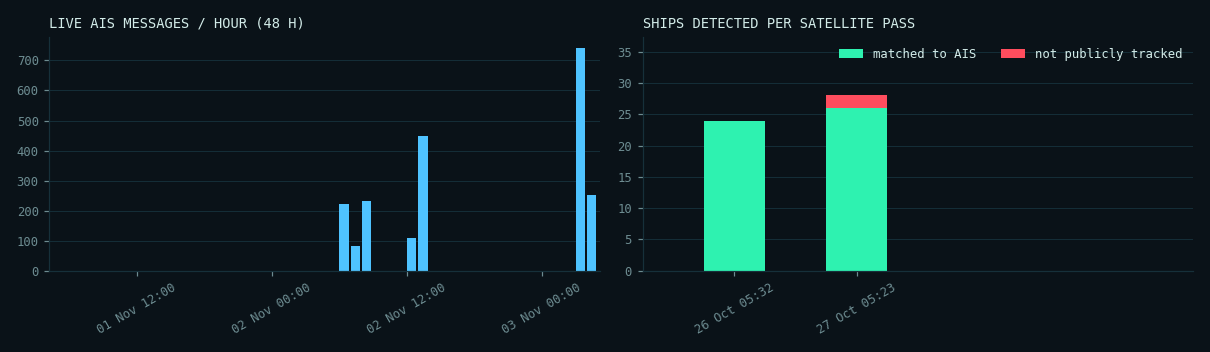
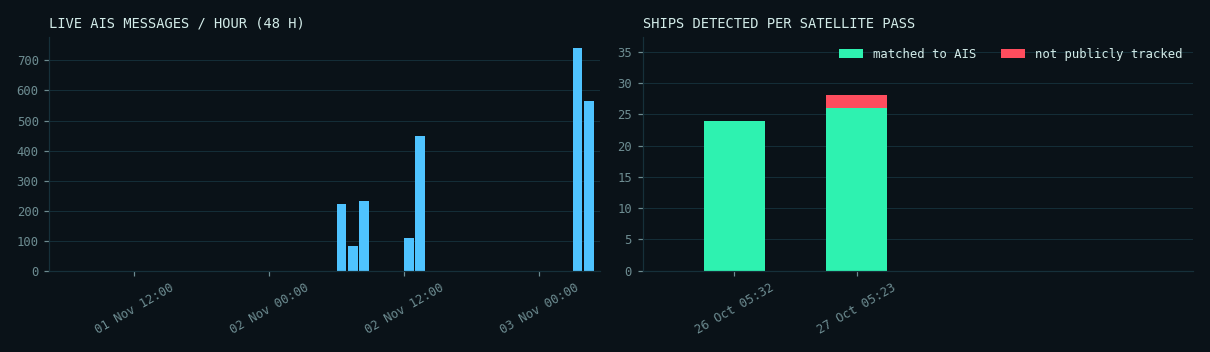
Automatic site update 2026-11-03 04:26 UTC

diff --git a/docs/denmark/index.html b/docs/denmark/index.html
@@ -83,13 +83,13 @@ footer{border-top:1px solid var(--line);padding:18px 0 28px;font:12px/1.6 var(--
   <div><div class="kicker">SAR &times; AIS &middot; MARITIME AWARENESS</div><div class="title">DARK VESSEL <b>DETECTION</b></div></div></a>
  <div class="status"><span class="pill"><span class="dot live"></span>AIS FEED <strong>LIVE</strong></span>
   <span class="pill">UTC <strong id="utc">--:--:--</strong></span>
-  <span class="pill">UPDATED <strong>03 Nov 04:12</strong></span></div>
+  <span class="pill">UPDATED <strong>03 Nov 04:27</strong></span></div>
 </div><nav class="tabs"><a class="" href="../index.html">OVERVIEW</a><a class="" href="../mumbai/index.html">MUMBAI</a><a class="on" href="../denmark/index.html">DENMARK</a><a class="" href="../nn/index.html">NEURAL NET</a><a class="" href="../demo/index.html">SIMULATION</a></nav></div></header>
 <main class="wrap"><div class="coords">SECTOR // DENMARK &middot; 55.55&ndash;55.85&deg;N &middot; 12.55&ndash;12.95&deg;E</div>
 <h1>Oresund, Copenhagen (Denmark/Sweden)</h1><p class="lede">Validation area. Sentinel-1 images it almost daily and coastal AIS coverage is dense, so the full match between radar and AIS can be shown and checked.</p>
 <div class="grid">
  <div class="panel"><div class="label">Live AIS feed</div><div class="value small"><span class='ok'>RECEIVING</span></div><div class="muted mono" style="font-size:12px;margin-top:6px">last message 0 min ago</div></div>
- <div class="panel"><div class="label">Ships broadcasting &middot; 30 min</div><div class="value cyan">56</div></div>
+ <div class="panel"><div class="label">Ships broadcasting &middot; 30 min</div><div class="value cyan">57</div></div>
  <div class="panel"><div class="label">Matched &middot; latest pass</div><div class="value ">26</div></div>
  <div class="panel"><div class="label">Not tracked &middot; high confidence</div><div class="value red">0</div></div>
  <div class="panel"><div class="label">Not tracked &middot; low confidence</div><div class="value amber">2</div></div>
@@ -98,7 +98,7 @@ footer{border-top:1px solid var(--line);padding:18px 0 28px;font:12px/1.6 var(--
 <div class="legend"><span><i style="background:var(--green)"></i>matched to AIS</span><span><i style="background:var(--red)"></i>not tracked &middot; high confidence</span>
 <span><i style="background:var(--amber)"></i>not tracked &middot; low confidence</span><span><i style="background:var(--cyan)"></i>live AIS position</span></div>
 <div id="map" class="map"></div><script>
-const D=[{"lon": 12.574560869565218, "lat": 55.849597826086956, "length_m": 72.681575622935, "score": 0.6554655519501138, "shore_km": 0.14150886088341372, "status": "matched", "reason": "", "confidence": "high", "crop": "", "ship_prob": 0.9335045218467712}, {"lon": 12.704759174311928, "lat": 55.82280412844037, "length_m": 364.1071436957287, "score": 0.9904753373251979, "shore_km": 9.407061429825474, "status": "matched", "reason": "", "confidence": "high", "crop": "", "ship_prob": 0.9868959784507751}, {"lon": 12.786416463414636, "lat": 55.804669512195126, "length_m": 155.0522474362954, "score": 0.9999646038759398, "shore_km": 4.658419014138412, "status": "matched", "reason": "", "confidence": "high", "crop": "", "ship_prob": 0.9993557333946228}, {"lon": 12.88229375, "lat": 55.849146875, "length_m": 53.38783327710226, "score": 0.9899546194309776, "shore_km": 0.9067240720863213, "status": "candidate", "reason": "same_spot_in_another_pass", "confidence": "low", "crop": "crops/S1-Oresund-20261027_37.png", "ship_prob": 0.7905591130256653}, {"lon": 12.604004166666668, "lat": 55.75985, "length_m": 141.84238362073958, "score": 0.6867268898684522, "shore_km": 0.07168283192738693, "status": "matched", "reason": "", "confidence": "high", "crop": "", "ship_prob": 0.5051270127296448}, {"lon": 12.605736764705883, "lat": 55.75241323529412, "length_m": 122.11483240811877, "score": 0.9136889320646264, "shore_km": 0.6454382429486746, "status": "candidate", "reason": "same_spot_in_another_pass", "confidence": "low", "crop": "crops/S1-Oresund-20261027_77.png", "ship_prob": 0.7927113175392151}, {"lon": 12.703722571428573, "lat": 55.77917742857143, "length_m": 223.0817648726515, "score": 0.9996320924909895, "shore_km": 5.943270442766068, "status": "matched", "reason": "", "confidence": "high", "crop": "", "ship_prob": 0.9938097596168518}, {"lon": 12.902757692307693, "lat": 55.75654230769231, "length_m": 65.46226537445588, "score": 0.7187896049600956, "shore_km": 0.03584141596369347, "status": "matched", "reason": "", "confidence": "high", "crop": "", "ship_prob": 0.8691755533218384}, {"lon": 12.589922222222222, "lat": 55.725764814814816, "length_m": 146.45480845096748, "score": 0.9957587025210503, "shore_km": 0.034771280891766385, "status": "matched", "reason": "", "confidence": "high", "crop": "", "ship_prob": 0.9983701109886169}, {"lon": 12.598472047244096, "lat": 55.72077913385827, "length_m": 207.62671185403417, "score": 0.609772230082722, "shore_km": 0.14016751439395445, "status": "matched", "reason": "", "confidence": "high", "crop": "", "ship_prob": 0.6074324250221252}, {"lon": 12.589218, "lat": 55.712854, "length_m": 90.49550243938293, "score": 0.6486089656085543, "shore_km": 0.043464101114707984, "status": "matched", "reason": "", "confidence": "high", "crop": "", "ship_prob": 0.9998902082443237}, {"lon": 12.59024090909091, "lat": 55.71147090909091, "length_m": 162.54265478639104, "score": 1.0, "shore_km": 0.06146752127277559, "status": "matched", "reason": "", "confidence": "high", "crop": "", "ship_prob": 0.9999992847442627}, {"lon": 12.597835937500001, "lat": 55.701648437500005, "length_m": 133.31776511703256, "score": 0.9396217092764791, "shore_km": 0.06789309632894441, "status": "matched", "reason": "", "confidence": "high", "crop": "", "ship_prob": 0.9999727010726929}, {"lon": 12.60914, "lat": 55.69712, "length_m": 65.36743236464424, "score": 0.7827588237578229, "shore_km": 0.03134240904220623, "status": "matched", "reason": "", "confidence": "high", "crop": "", "ship_prob": 0.9867132902145386}, {"lon": 12.668552272727274, "lat": 55.72007840909091, "length_m": 207.26605497726354, "score": 0.6251792307103263, "shore_km": 0.03584141596369347, "status": "matched", "reason": "", "confidence": "high", "crop": "", "ship_prob": 0.9087074398994446}, {"lon": 12.5996, "lat": 55.68885, "length_m": 40.00855981470757, "score": 0.7664068666153926, "shore_km": 0.024587008509110237, "status": "matched", "reason": "", "confidence": "high", "crop": "", "ship_prob": 0.9766618013381958}, {"lon": 12.595819230769232, "lat": 55.67989871794872, "length_m": 127.62371588738732, "score": 0.9426870407335851, "shore_km": 0.05068741655051085, "status": "matched", "reason": "", "confidence": "high", "crop": "", "ship_prob": 0.9998841285705566}, {"lon": 12.594722222222224, "lat": 55.67918888888889, "length_m": 40.64467714079742, "score": 0.7639524834029205, "shore_km": 0.043464101114707984, "status": "matched", "reason": "", "confidence": "high", "crop": "", "ship_prob": 0.9999454021453857}, {"lon": 12.610660714285714, "lat": 55.69618571428572, "length_m": 94.51225356515693, "score": 0.9621795096736379, "shore_km": 0.03134240904220623, "status": "matched", "reason": "", "confidence": "high", "crop": "", "ship_prob": 0.999042809009552}, {"lon": 12.649045000000001, "lat": 55.692155, "length_m": 80.63364746000343, "score": 0.8515033668168979, "shore_km": 0.8863693295037299, "status": "matched", "reason": "", "confidence": "high", "crop": "", "ship_prob": 0.4333752989768982}, {"lon": 12.630751724137932, "lat": 55.685453448275865, "length_m": 125.00287123881988, "score": 0.93629426700422, "shore_km": 0.043464101114707984, "status": "matched", "reason": "", "confidence": "high", "crop": "", "ship_prob": 0.9975905418395996}, {"lon": 12.634987254901962, "lat": 55.677338235294116, "length_m": 276.5478352749318, "score": 0.7686103584091717, "shore_km": 0.024587008509110237, "status": "matched", "reason": "", "confidence": "high", "crop": "", "ship_prob": 0.9729636907577515}, {"lon": 12.68766150442478, "lat": 55.69581814159292, "length_m": 176.8074930452176, "score": 0.923202226335388, "shore_km": 2.6834920471942074, "status": "matched", "reason": "", "confidence": "high", "crop": "", "ship_prob": 0.8427141904830933}, {"lon": 12.65826847826087, "lat": 55.63610108695652, "length_m": 174.21377549767067, "score": 0.9833187000337672, "shore_km": 0.043464101114707984, "status": "matched", "reason": "", "confidence": "high", "crop": "", "ship_prob": 0.9998973608016968}, {"lon": 12.680683333333334, "lat": 55.610910000000004, "length_m": 74.22790892756812, "score": 0.6314184609397504, "shore_km": 0.03134240904220623, "status": "matched", "reason": "", "confidence": "high", "crop": "", "ship_prob": 0.44054293632507324}, {"lon": 12.868352132196163, "lat": 55.60022420042644, "length_m": 299.20726350177785, "score": 0.9999960398718075, "shore_km": 2.8169298200726325, "status": "matched", "reason": "", "confidence": "high", "crop": "", "ship_prob": 0.9967911839485168}, {"lon": 12.680875, "lat": 55.59323, "length_m": 95.51211981545671, "score": 0.7585723176580392, "shore_km": 0.03584141596369347, "status": "matched", "reason": "", "confidence": "high", "crop": "", "ship_prob": 0.797581672668457}, {"lon": 12.706387741935485, "lat": 55.56306903225806, "length_m": 301.4640427512081, "score": 0.9999731380181186, "shore_km": 3.1965238712919084, "status": "matched", "reason": "", "confidence": "high", "crop": "", "ship_prob": 0.9941650032997131}],LIVE=[{"lon": 12.660731666666667, "lat": 55.404043333333334, "sog": 11.4, "age": 29}, {"lon": 12.634883333333333, "lat": 55.687149999999995, "sog": 0.0, "age": 28}, {"lon": 12.835306666666666, "lat": 55.85993, "sog": 0.0, "age": 22}, {"lon": 13.035161666666665, "lat": 55.62470666666666, "sog": 0.1, "age": 21}, {"lon": 12.729058333333334, "lat": 55.97932333333333, "sog": 0.1, "age": 20}, {"lon": 12.603485000000001, "lat": 55.760515000000005, "sog": 0.0, "age": 19}, {"lon": 12.8337, "lat": 55.855716666666666, "sog": 0.0, "age": 15}, {"lon": 12.831928333333334, "lat": 55.85404166666667, "sog": 0.0, "age": 15}, {"lon": 13.033301666666667, "lat": 55.62462, "sog": 0.0, "age": 14}, {"lon": 13.058513333333334, "lat": 55.67565833333333, "sog": 0.0, "age": 12}, {"lon": 12.832903333333332, "lat": 55.85850666666667, "sog": 0.0, "age": 11}, {"lon": 12.594951666666667, "lat": 55.682453333333335, "sog": 0.0, "age": 10}, {"lon": 12.722683333333332, "lat": 55.903735, "sog": 0.0, "age": 10}, {"lon": 12.480875, "lat": 55.606795000000005, "sog": 0.0, "age": 10}, {"lon": 12.676353333333333, "lat": 55.93192666666666, "sog": 0.0, "age": 9}, {"lon": 12.697930000000001, "lat": 55.457233333333335, "sog": 13.7, "age": 8}, {"lon": 12.997346666666665, "lat": 55.61366666666667, "sog": 0.0, "age": 8}, {"lon": 12.65807, "lat": 55.402699999999996, "sog": 9.9, "age": 7}, {"lon": 12.892198333333333, "lat": 55.52373333333333, "sog": 0.0, "age": 6}, {"lon": 12.744438333333333, "lat": 55.99321833333333, "sog": 0.0, "age": 6}, {"lon": 12.647483333333334, "lat": 55.67689166666666, "sog": 0.0, "age": 6}, {"lon": 12.729648333333333, "lat": 55.75158666666667, "sog": 0.0, "age": 6}, {"lon": 12.824833333333334, "lat": 55.86593333333334, "sog": 0.0, "age": 5}, {"lon": 12.635456666666666, "lat": 55.67645166666667, "sog": 0.0, "age": 5}, {"lon": 13.033781666666666, "lat": 55.62458, "sog": 0.0, "age": 5}, {"lon": 12.625311666666667, "lat": 55.69107333333333, "sog": 0.0, "age": 5}, {"lon": 12.66589, "lat": 55.71980333333333, "sog": 0.1, "age": 4}, {"lon": 12.654055, "lat": 55.859095, "sog": 9.7, "age": 4}, {"lon": 12.501651666666667, "lat": 55.61080333333334, "sog": 0.0, "age": 4}, {"lon": 12.828235000000001, "lat": 55.861675, "sog": 0.0, "age": 3}, {"lon": 12.827591666666667, "lat": 55.862743333333334, "sog": 0.0, "age": 3}, {"lon": 12.661093333333334, "lat": 55.94286, "sog": 12.8, "age": 3}, {"lon": 12.59298, "lat": 55.679269999999995, "sog": 0.0, "age": 3}, {"lon": 12.726915, "lat": 55.82815666666667, "sog": 8.4, "age": 3}, {"lon": 12.676118333333333, "lat": 55.59364333333333, "sog": 0.0, "age": 2}, {"lon": 12.593518333333332, "lat": 55.679179999999995, "sog": 0.0, "age": 2}, {"lon": 12.680085, "lat": 55.59289166666667, "sog": 0.0, "age": 2}, {"lon": 12.836225, "lat": 55.565263333333334, "sog": 12.8, "age": 2}, {"lon": 12.646913333333334, "lat": 55.677371666666666, "sog": 0.0, "age": 2}, {"lon": 12.680185, "lat": 55.592843333333334, "sog": 0.0, "age": 2}, {"lon": 12.693196666666667, "lat": 55.63366666666666, "sog": 7.3, "age": 2}, {"lon": 12.634131666666667, "lat": 55.675761666666666, "sog": 0.0, "age": 2}, {"lon": 12.734336666666668, "lat": 55.81198333333334, "sog": 5.7, "age": 1}, {"lon": 12.999793333333335, "lat": 55.618365000000004, "sog": 0.0, "age": 1}, {"lon": 12.730664999999998, "lat": 55.822916666666664, "sog": 8.4, "age": 1}, {"lon": 12.67686, "lat": 55.593981666666664, "sog": 0.0, "age": 1}, {"lon": 12.572745, "lat": 55.85084, "sog": 0.0, "age": 1}, {"lon": 12.482468333333333, "lat": 55.601416666666665, "sog": 0.0, "age": 1}, {"lon": 12.744443333333333, "lat": 55.9933, "sog": 0.0, "age": 1}, {"lon": 12.664043333333332, "lat": 55.720029999999994, "sog": 0.0, "age": 0}, {"lon": 12.903491666666667, "lat": 55.75664666666667, "sog": 0.0, "age": 0}, {"lon": 12.823681666666666, "lat": 55.866391666666665, "sog": 0.0, "age": 0}, {"lon": 12.811471666666668, "lat": 55.564695, "sog": 9.6, "age": 0}, {"lon": 12.599043333333332, "lat": 55.68904666666666, "sog": 0.1, "age": 0}, {"lon": 12.488326666666667, "lat": 55.51747666666667, "sog": 0.0, "age": 0}, {"lon": 12.699615, "lat": 55.59893666666667, "sog": 8.2, "age": 0}],B=[[55.55,12.55],[55.85,12.95]];const m=L.map('map',{zoomSnap:.25}).fitBounds(B);
+const D=[{"lon": 12.574560869565218, "lat": 55.849597826086956, "length_m": 72.681575622935, "score": 0.6554655519501138, "shore_km": 0.14150886088341372, "status": "matched", "reason": "", "confidence": "high", "crop": "", "ship_prob": 0.9335045218467712}, {"lon": 12.704759174311928, "lat": 55.82280412844037, "length_m": 364.1071436957287, "score": 0.9904753373251979, "shore_km": 9.407061429825474, "status": "matched", "reason": "", "confidence": "high", "crop": "", "ship_prob": 0.9868959784507751}, {"lon": 12.786416463414636, "lat": 55.804669512195126, "length_m": 155.0522474362954, "score": 0.9999646038759398, "shore_km": 4.658419014138412, "status": "matched", "reason": "", "confidence": "high", "crop": "", "ship_prob": 0.9993557333946228}, {"lon": 12.88229375, "lat": 55.849146875, "length_m": 53.38783327710226, "score": 0.9899546194309776, "shore_km": 0.9067240720863213, "status": "candidate", "reason": "same_spot_in_another_pass", "confidence": "low", "crop": "crops/S1-Oresund-20261027_37.png", "ship_prob": 0.7905591130256653}, {"lon": 12.604004166666668, "lat": 55.75985, "length_m": 141.84238362073958, "score": 0.6867268898684522, "shore_km": 0.07168283192738693, "status": "matched", "reason": "", "confidence": "high", "crop": "", "ship_prob": 0.5051270127296448}, {"lon": 12.605736764705883, "lat": 55.75241323529412, "length_m": 122.11483240811877, "score": 0.9136889320646264, "shore_km": 0.6454382429486746, "status": "candidate", "reason": "same_spot_in_another_pass", "confidence": "low", "crop": "crops/S1-Oresund-20261027_77.png", "ship_prob": 0.7927113175392151}, {"lon": 12.703722571428573, "lat": 55.77917742857143, "length_m": 223.0817648726515, "score": 0.9996320924909895, "shore_km": 5.943270442766068, "status": "matched", "reason": "", "confidence": "high", "crop": "", "ship_prob": 0.9938097596168518}, {"lon": 12.902757692307693, "lat": 55.75654230769231, "length_m": 65.46226537445588, "score": 0.7187896049600956, "shore_km": 0.03584141596369347, "status": "matched", "reason": "", "confidence": "high", "crop": "", "ship_prob": 0.8691755533218384}, {"lon": 12.589922222222222, "lat": 55.725764814814816, "length_m": 146.45480845096748, "score": 0.9957587025210503, "shore_km": 0.034771280891766385, "status": "matched", "reason": "", "confidence": "high", "crop": "", "ship_prob": 0.9983701109886169}, {"lon": 12.598472047244096, "lat": 55.72077913385827, "length_m": 207.62671185403417, "score": 0.609772230082722, "shore_km": 0.14016751439395445, "status": "matched", "reason": "", "confidence": "high", "crop": "", "ship_prob": 0.6074324250221252}, {"lon": 12.589218, "lat": 55.712854, "length_m": 90.49550243938293, "score": 0.6486089656085543, "shore_km": 0.043464101114707984, "status": "matched", "reason": "", "confidence": "high", "crop": "", "ship_prob": 0.9998902082443237}, {"lon": 12.59024090909091, "lat": 55.71147090909091, "length_m": 162.54265478639104, "score": 1.0, "shore_km": 0.06146752127277559, "status": "matched", "reason": "", "confidence": "high", "crop": "", "ship_prob": 0.9999992847442627}, {"lon": 12.597835937500001, "lat": 55.701648437500005, "length_m": 133.31776511703256, "score": 0.9396217092764791, "shore_km": 0.06789309632894441, "status": "matched", "reason": "", "confidence": "high", "crop": "", "ship_prob": 0.9999727010726929}, {"lon": 12.60914, "lat": 55.69712, "length_m": 65.36743236464424, "score": 0.7827588237578229, "shore_km": 0.03134240904220623, "status": "matched", "reason": "", "confidence": "high", "crop": "", "ship_prob": 0.9867132902145386}, {"lon": 12.668552272727274, "lat": 55.72007840909091, "length_m": 207.26605497726354, "score": 0.6251792307103263, "shore_km": 0.03584141596369347, "status": "matched", "reason": "", "confidence": "high", "crop": "", "ship_prob": 0.9087074398994446}, {"lon": 12.5996, "lat": 55.68885, "length_m": 40.00855981470757, "score": 0.7664068666153926, "shore_km": 0.024587008509110237, "status": "matched", "reason": "", "confidence": "high", "crop": "", "ship_prob": 0.9766618013381958}, {"lon": 12.595819230769232, "lat": 55.67989871794872, "length_m": 127.62371588738732, "score": 0.9426870407335851, "shore_km": 0.05068741655051085, "status": "matched", "reason": "", "confidence": "high", "crop": "", "ship_prob": 0.9998841285705566}, {"lon": 12.594722222222224, "lat": 55.67918888888889, "length_m": 40.64467714079742, "score": 0.7639524834029205, "shore_km": 0.043464101114707984, "status": "matched", "reason": "", "confidence": "high", "crop": "", "ship_prob": 0.9999454021453857}, {"lon": 12.610660714285714, "lat": 55.69618571428572, "length_m": 94.51225356515693, "score": 0.9621795096736379, "shore_km": 0.03134240904220623, "status": "matched", "reason": "", "confidence": "high", "crop": "", "ship_prob": 0.999042809009552}, {"lon": 12.649045000000001, "lat": 55.692155, "length_m": 80.63364746000343, "score": 0.8515033668168979, "shore_km": 0.8863693295037299, "status": "matched", "reason": "", "confidence": "high", "crop": "", "ship_prob": 0.4333752989768982}, {"lon": 12.630751724137932, "lat": 55.685453448275865, "length_m": 125.00287123881988, "score": 0.93629426700422, "shore_km": 0.043464101114707984, "status": "matched", "reason": "", "confidence": "high", "crop": "", "ship_prob": 0.9975905418395996}, {"lon": 12.634987254901962, "lat": 55.677338235294116, "length_m": 276.5478352749318, "score": 0.7686103584091717, "shore_km": 0.024587008509110237, "status": "matched", "reason": "", "confidence": "high", "crop": "", "ship_prob": 0.9729636907577515}, {"lon": 12.68766150442478, "lat": 55.69581814159292, "length_m": 176.8074930452176, "score": 0.923202226335388, "shore_km": 2.6834920471942074, "status": "matched", "reason": "", "confidence": "high", "crop": "", "ship_prob": 0.8427141904830933}, {"lon": 12.65826847826087, "lat": 55.63610108695652, "length_m": 174.21377549767067, "score": 0.9833187000337672, "shore_km": 0.043464101114707984, "status": "matched", "reason": "", "confidence": "high", "crop": "", "ship_prob": 0.9998973608016968}, {"lon": 12.680683333333334, "lat": 55.610910000000004, "length_m": 74.22790892756812, "score": 0.6314184609397504, "shore_km": 0.03134240904220623, "status": "matched", "reason": "", "confidence": "high", "crop": "", "ship_prob": 0.44054293632507324}, {"lon": 12.868352132196163, "lat": 55.60022420042644, "length_m": 299.20726350177785, "score": 0.9999960398718075, "shore_km": 2.8169298200726325, "status": "matched", "reason": "", "confidence": "high", "crop": "", "ship_prob": 0.9967911839485168}, {"lon": 12.680875, "lat": 55.59323, "length_m": 95.51211981545671, "score": 0.7585723176580392, "shore_km": 0.03584141596369347, "status": "matched", "reason": "", "confidence": "high", "crop": "", "ship_prob": 0.797581672668457}, {"lon": 12.706387741935485, "lat": 55.56306903225806, "length_m": 301.4640427512081, "score": 0.9999731380181186, "shore_km": 3.1965238712919084, "status": "matched", "reason": "", "confidence": "high", "crop": "", "ship_prob": 0.9941650032997131}],LIVE=[{"lon": 12.594951666666667, "lat": 55.682453333333335, "sog": 0.0, "age": 25}, {"lon": 12.65807, "lat": 55.402699999999996, "sog": 9.9, "age": 21}, {"lon": 12.744438333333333, "lat": 55.99321833333333, "sog": 0.0, "age": 21}, {"lon": 12.66589, "lat": 55.71980333333333, "sog": 0.1, "age": 19}, {"lon": 12.828235000000001, "lat": 55.861675, "sog": 0.0, "age": 17}, {"lon": 12.999793333333335, "lat": 55.618365000000004, "sog": 0.0, "age": 15}, {"lon": 12.599043333333332, "lat": 55.68904666666666, "sog": 0.1, "age": 14}, {"lon": 12.72914, "lat": 55.97906833333333, "sog": 0.0, "age": 14}, {"lon": 12.480893333333334, "lat": 55.60682, "sog": 0.0, "age": 12}, {"lon": 12.83375, "lat": 55.855716666666666, "sog": 0.0, "age": 11}, {"lon": 12.997345, "lat": 55.613665, "sog": 0.0, "age": 11}, {"lon": 12.835305, "lat": 55.85993, "sog": 0.0, "age": 9}, {"lon": 12.63486, "lat": 55.68714166666667, "sog": 0.0, "age": 9}, {"lon": 12.892178333333334, "lat": 55.52372666666667, "sog": 0.0, "age": 9}, {"lon": 12.831928333333334, "lat": 55.85404166666667, "sog": 0.0, "age": 8}, {"lon": 12.676055, "lat": 55.593648333333334, "sog": 0.0, "age": 8}, {"lon": 13.03331, "lat": 55.624559999999995, "sog": 0.0, "age": 8}, {"lon": 12.824866666666667, "lat": 55.865916666666664, "sog": 0.0, "age": 7}, {"lon": 12.634105, "lat": 55.675755, "sog": 0.0, "age": 7}, {"lon": 12.741763333333333, "lat": 55.843693333333334, "sog": 8.6, "age": 6}, {"lon": 12.823648333333333, "lat": 55.8664, "sog": 0.0, "age": 5}, {"lon": 12.827591666666667, "lat": 55.86271, "sog": 0.0, "age": 5}, {"lon": 12.680443333333333, "lat": 55.61122, "sog": 0.0, "age": 5}, {"lon": 12.488301666666667, "lat": 55.51754833333334, "sog": 0.0, "age": 5}, {"lon": 12.741233333333334, "lat": 55.828685, "sog": 6.1, "age": 5}, {"lon": 12.697585, "lat": 55.610636666666664, "sog": 7.6, "age": 5}, {"lon": 12.72975, "lat": 55.751776666666665, "sog": 0.1, "age": 5}, {"lon": 12.722643333333334, "lat": 55.90373, "sog": 0.0, "age": 5}, {"lon": 12.66403, "lat": 55.72002666666666, "sog": 0.0, "age": 3}, {"lon": 12.593475000000002, "lat": 55.67917833333333, "sog": 0.0, "age": 3}, {"lon": 12.671326666666666, "lat": 55.816865, "sog": 9.2, "age": 2}, {"lon": 12.684679999999998, "lat": 55.40779333333333, "sog": 14.0, "age": 2}, {"lon": 12.572758333333333, "lat": 55.85083833333333, "sog": 0.0, "age": 2}, {"lon": 12.603545, "lat": 55.760575, "sog": 0.0, "age": 2}, {"lon": 12.697095, "lat": 55.570463333333336, "sog": 12.3, "age": 2}, {"lon": 12.832901666666666, "lat": 55.85850666666667, "sog": 0.0, "age": 2}, {"lon": 12.744454999999999, "lat": 55.993298333333335, "sog": 0.0, "age": 2}, {"lon": 12.635425, "lat": 55.67644, "sog": 0.0, "age": 1}, {"lon": 12.625271666666666, "lat": 55.69106166666666, "sog": 0.0, "age": 1}, {"lon": 12.646938333333333, "lat": 55.677393333333335, "sog": 0.0, "age": 1}, {"lon": 12.482471666666667, "lat": 55.601416666666665, "sog": 0.0, "age": 1}, {"lon": 12.647474999999998, "lat": 55.67688, "sog": 0.0, "age": 1}, {"lon": 12.677158333333333, "lat": 55.93165333333333, "sog": 0.0, "age": 1}, {"lon": 13.033803333333333, "lat": 55.62458166666667, "sog": 0.0, "age": 1}, {"lon": 12.768246666666666, "lat": 55.53814, "sog": 9.0, "age": 1}, {"lon": 12.740908333333334, "lat": 55.86595, "sog": 8.8, "age": 1}, {"lon": 12.676905, "lat": 55.59395, "sog": 0.0, "age": 0}, {"lon": 12.758125, "lat": 55.528326666666665, "sog": 11.6, "age": 0}, {"lon": 12.833283333333332, "lat": 55.85588333333333, "sog": 0.0, "age": 0}, {"lon": 12.685056666666666, "lat": 55.99837333333333, "sog": 12.8, "age": 0}, {"lon": 12.68007, "lat": 55.5929, "sog": 0.0, "age": 0}, {"lon": 12.765475, "lat": 55.53581666666666, "sog": 9.6, "age": 0}, {"lon": 12.704975, "lat": 55.564, "sog": 9.5, "age": 0}, {"lon": 12.592981666666667, "lat": 55.67928833333334, "sog": 0.0, "age": 0}, {"lon": 12.903496666666666, "lat": 55.75664833333334, "sog": 0.0, "age": 0}, {"lon": 12.501646666666666, "lat": 55.610800000000005, "sog": 0.0, "age": 0}, {"lon": 13.0585, "lat": 55.67566, "sog": 0.0, "age": 0}],B=[[55.55,12.55],[55.85,12.95]];const m=L.map('map',{zoomSnap:.25}).fitBounds(B);
 // re-fit once layout has settled: if the container had no size when the map was created, Leaflet falls back to zoom 0
 const refit=()=>{m.invalidateSize();m.fitBounds(B);};setTimeout(refit,0);window.addEventListener('load',refit);
 // standard OSM tiles (no API key), turned into a dark "radar console" basemap with a CSS filter (.radar-tiles)
@@ -116,7 +116,7 @@ L.control.layers(null,{'Radar detections (selected pass)':det,'Live AIS, last 30
 </script>
 <h2>Pass log</h2><div class='tablewrap'><table><thead><tr><th>pass (UTC)</th><th>ships</th><th>matched</th><th>not tracked</th><th>low conf.</th><th>match rate</th><th>AIS msgs</th></tr></thead><tbody><tr><td>2026-10-27 05:23 UTC</td><td>28</td><td class='ok'>26</td><td class='bad'>0</td><td style='color:var(--amber)'>2</td><td>93%</td><td>10687</td></tr><tr><td>2026-10-26 05:32 UTC</td><td>24</td><td class='ok'>24</td><td class='bad'>0</td><td style='color:var(--amber)'>0</td><td>100%</td><td>11603</td></tr></tbody></table></div>
 <h2>Telemetry</h2><img class="chart" src="charts.png" alt="AIS messages per hour and ships detected per pass">
-<p class="muted mono" style="font-size:12px">Feed gaps in the last 24 h: 8 (1142 min) &middot; AIS messages in the last hour: 994</p>
+<p class="muted mono" style="font-size:12px">Feed gaps in the last 24 h: 8 (1142 min) &middot; AIS messages in the last hour: 1240</p>
 <h2>Recent Sentinel-1 acquisitions</h2><ul class="acq"><li>2026-11-02 05:23 UTC</li><li>2026-11-01 16:44 UTC</li><li>2026-11-01 05:31 UTC</li><li>2026-10-31 16:52 UTC</li><li>2026-10-30 17:00 UTC</li><li>2026-10-27 05:23 UTC</li><li>2026-10-26 05:32 UTC</li><li>2026-10-25 16:52 UTC</li></ul></main>
 <footer><div class="wrap">Data: Copernicus Sentinel-1 (ESA) &middot; AIS via aisstream.io and the Danish Maritime Authority &middot;
 coastlines, structures and basemap &copy; OpenStreetMap contributors. Flags are candidates for review, not accusations.</div></footer>

diff --git a/docs/index.html b/docs/index.html
@@ -83,7 +83,7 @@ footer{border-top:1px solid var(--line);padding:18px 0 28px;font:12px/1.6 var(--
   <div><div class="kicker">SAR &times; AIS &middot; MARITIME AWARENESS</div><div class="title">DARK VESSEL <b>DETECTION</b></div></div></a>
  <div class="status"><span class="pill"><span class="dot live"></span>AIS FEED <strong>LIVE</strong></span>
   <span class="pill">UTC <strong id="utc">--:--:--</strong></span>
-  <span class="pill">UPDATED <strong>03 Nov 04:12</strong></span></div>
+  <span class="pill">UPDATED <strong>03 Nov 04:27</strong></span></div>
 </div><nav class="tabs"><a class="on" href="index.html">OVERVIEW</a><a class="" href="mumbai/index.html">MUMBAI</a><a class="" href="denmark/index.html">DENMARK</a><a class="" href="nn/index.html">NEURAL NET</a><a class="" href="demo/index.html">SIMULATION</a></nav></div></header>
 <main class="wrap"><div class="coords">SYSTEM OVERVIEW</div>
 <h1>Ships the radar sees that nobody is tracking</h1>
@@ -91,7 +91,7 @@ footer{border-top:1px solid var(--line);padding:18px 0 28px;font:12px/1.6 var(--
 This system compares the two for each processed Sentinel-1 pass and lists the ships that appear on radar with no matching AIS signal.</p>
 <div class="grid" style="margin-top:18px"><div class="panel"><div class="label">Satellite passes processed</div><div class="value ">3</div></div><div class="panel"><div class="label">Ships matched to AIS</div><div class="value ">50</div></div>
 <div class="panel"><div class="label">Not tracked &middot; high confidence</div><div class="value red">0</div></div><div class="panel"><div class="label">Not tracked &middot; low confidence</div><div class="value amber">117</div></div>
-<div class="panel"><div class="label">Broadcasting now &middot; 30 min</div><div class="value cyan">56</div></div></div>
+<div class="panel"><div class="label">Broadcasting now &middot; 30 min</div><div class="value cyan">57</div></div></div>
 <p class="muted" style="font-size:13px;margin-top:10px"><b>High confidence</b> = no AIS ship nearby although the AIS feed was healthy and the
 target is within receiver range, and it is not at a spot where something was also seen on another pass. Everything else is
 <b>low confidence</b>: the data cannot support calling it dark (for example Mumbai, where no AIS was available for the pass at all).</p>
@@ -114,14 +114,14 @@ same pipeline using historical AIS. Next expected passes: Mumbai about 5 Nov 01:
 <div class="kv"><span>ships matched to AIS</span><span class="ok">50</span></div>
 <div class="kv"><span>not tracked, high confidence</span><span class="bad">0</span></div>
 <div class="kv"><span>not tracked, low confidence</span><span style="color:var(--amber)">2</span></div>
-<div class="kv"><span>broadcasting now (30 min)</span><span style="color:var(--cyan)">56</span></div>
+<div class="kv"><span>broadcasting now (30 min)</span><span style="color:var(--cyan)">57</span></div>
 <div class="go">OPEN SECTOR &rarr;</div></a></div>
 <h2>Read before trusting a flag</h2>
 <div class="alert"><b>"Not publicly tracked" is not "switched off".</b> Small boats often carry no public AIS, free AIS comes from coastal
 receivers with limited range, and ships under about 40 m are not reliably visible to the satellite. Low-confidence flags are the ones the
 data cannot support: beyond receiver range, during an AIS feed gap, or with no AIS recorded.</div>
 <h2>Automatic runs</h2><p class="muted mono" style="font-size:12.5px;margin-top:-4px">Each row is one automatic website rebuild, with the live AIS counts at that moment. Newest first.</p>
-<div class="tablewrap"><table><thead><tr><th>run (UTC)</th><th>mumbai live</th><th>mumbai msg/h</th><th>denmark live</th><th>denmark msg/h</th></tr></thead><tbody><tr><td>2026-11-03 04:12</td><td>0</td><td>0</td><td>56</td><td>994</td></tr><tr><td>2026-11-03 04:11</td><td>0</td><td>0</td><td>56</td><td>967</td></tr><tr><td>2026-11-03 03:57</td><td>0</td><td>0</td><td>59</td><td>666</td></tr><tr><td>2026-11-03 03:55</td><td>0</td><td>0</td><td>59</td><td>644</td></tr><tr><td>2026-11-03 03:41</td><td>0</td><td>0</td><td>58</td><td>348</td></tr><tr><td>2026-11-03 03:40</td><td>0</td><td>0</td><td>58</td><td>330</td></tr><tr><td>2026-11-03 03:26</td><td>0</td><td>0</td><td>31</td><td>65</td></tr><tr><td>2026-11-03 03:24</td><td>0</td><td>0</td><td>27</td><td>52</td></tr><tr><td>2026-11-02 13:37</td><td>0</td><td>0</td><td>68</td><td>479</td></tr><tr><td>2026-11-02 13:34</td><td>0</td><td>0</td><td>68</td><td>448</td></tr><tr><td>2026-11-02 13:21</td><td>0</td><td>0</td><td>63</td><td>313</td></tr><tr><td>2026-11-02 13:05</td><td>0</td><td>0</td><td>62</td><td>160</td></tr><tr><td>2026-11-02 12:58</td><td>0</td><td>0</td><td>50</td><td>96</td></tr><tr><td>2026-11-02 12:42</td><td>0</td><td>0</td><td>9</td><td>9</td></tr><tr><td>2026-11-02 08:09</td><td>0</td><td>0</td><td>62</td><td>171</td></tr><tr><td>2026-11-02 07:53</td><td>0</td><td>0</td><td>19</td><td>49</td></tr><tr><td>2026-11-02 07:39</td><td>0</td><td>0</td><td>0</td><td>166</td></tr><tr><td>2026-11-02 07:27</td><td>0</td><td>0</td><td>0</td><td>222</td></tr><tr><td>2026-11-02 06:48</td><td>0</td><td>0</td><td>58</td><td>148</td></tr><tr><td>2026-11-02 06:33</td><td>0</td><td>0</td><td>5</td><td>6</td></tr><tr><td>2026-11-02 06:29</td><td>0</td><td>0</td><td>0</td><td>0</td></tr><tr><td>2026-11-02 06:25</td><td>0</td><td>0</td><td>0</td><td>0</td></tr><tr><td>2026-11-02 06:20</td><td>0</td><td>0</td><td>0</td><td>0</td></tr><tr><td>2026-11-02 06:10</td><td>0</td><td>0</td><td>0</td><td>0</td></tr></tbody></table></div></main>
+<div class="tablewrap"><table><thead><tr><th>run (UTC)</th><th>mumbai live</th><th>mumbai msg/h</th><th>denmark live</th><th>denmark msg/h</th></tr></thead><tbody><tr><td>2026-11-03 04:27</td><td>0</td><td>0</td><td>57</td><td>1240</td></tr><tr><td>2026-11-03 04:12</td><td>0</td><td>0</td><td>56</td><td>994</td></tr><tr><td>2026-11-03 04:11</td><td>0</td><td>0</td><td>56</td><td>967</td></tr><tr><td>2026-11-03 03:57</td><td>0</td><td>0</td><td>59</td><td>666</td></tr><tr><td>2026-11-03 03:55</td><td>0</td><td>0</td><td>59</td><td>644</td></tr><tr><td>2026-11-03 03:41</td><td>0</td><td>0</td><td>58</td><td>348</td></tr><tr><td>2026-11-03 03:40</td><td>0</td><td>0</td><td>58</td><td>330</td></tr><tr><td>2026-11-03 03:26</td><td>0</td><td>0</td><td>31</td><td>65</td></tr><tr><td>2026-11-03 03:24</td><td>0</td><td>0</td><td>27</td><td>52</td></tr><tr><td>2026-11-02 13:37</td><td>0</td><td>0</td><td>68</td><td>479</td></tr><tr><td>2026-11-02 13:34</td><td>0</td><td>0</td><td>68</td><td>448</td></tr><tr><td>2026-11-02 13:21</td><td>0</td><td>0</td><td>63</td><td>313</td></tr><tr><td>2026-11-02 13:05</td><td>0</td><td>0</td><td>62</td><td>160</td></tr><tr><td>2026-11-02 12:58</td><td>0</td><td>0</td><td>50</td><td>96</td></tr><tr><td>2026-11-02 12:42</td><td>0</td><td>0</td><td>9</td><td>9</td></tr><tr><td>2026-11-02 08:09</td><td>0</td><td>0</td><td>62</td><td>171</td></tr><tr><td>2026-11-02 07:53</td><td>0</td><td>0</td><td>19</td><td>49</td></tr><tr><td>2026-11-02 07:39</td><td>0</td><td>0</td><td>0</td><td>166</td></tr><tr><td>2026-11-02 07:27</td><td>0</td><td>0</td><td>0</td><td>222</td></tr><tr><td>2026-11-02 06:48</td><td>0</td><td>0</td><td>58</td><td>148</td></tr><tr><td>2026-11-02 06:33</td><td>0</td><td>0</td><td>5</td><td>6</td></tr><tr><td>2026-11-02 06:29</td><td>0</td><td>0</td><td>0</td><td>0</td></tr><tr><td>2026-11-02 06:25</td><td>0</td><td>0</td><td>0</td><td>0</td></tr><tr><td>2026-11-02 06:20</td><td>0</td><td>0</td><td>0</td><td>0</td></tr></tbody></table></div></main>
 <footer><div class="wrap">Data: Copernicus Sentinel-1 (ESA) &middot; AIS via aisstream.io and the Danish Maritime Authority &middot;
 coastlines, structures and basemap &copy; OpenStreetMap contributors. Flags are candidates for review, not accusations.</div></footer>
 <script>(function(){const e=document.getElementById('utc');const t=()=>e.textContent=new Date().toISOString().slice(11,19);t();setInterval(t,1000);})();</script>

diff --git a/docs/mumbai/index.html b/docs/mumbai/index.html
@@ -83,7 +83,7 @@ footer{border-top:1px solid var(--line);padding:18px 0 28px;font:12px/1.6 var(--
   <div><div class="kicker">SAR &times; AIS &middot; MARITIME AWARENESS</div><div class="title">DARK VESSEL <b>DETECTION</b></div></div></a>
  <div class="status"><span class="pill"><span class="dot live"></span>AIS FEED <strong>LIVE</strong></span>
   <span class="pill">UTC <strong id="utc">--:--:--</strong></span>
-  <span class="pill">UPDATED <strong>03 Nov 04:12</strong></span></div>
+  <span class="pill">UPDATED <strong>03 Nov 04:26</strong></span></div>
 </div><nav class="tabs"><a class="" href="../index.html">OVERVIEW</a><a class="on" href="../mumbai/index.html">MUMBAI</a><a class="" href="../denmark/index.html">DENMARK</a><a class="" href="../nn/index.html">NEURAL NET</a><a class="" href="../demo/index.html">SIMULATION</a></nav></div></header>
 <main class="wrap"><div class="coords">SECTOR // MUMBAI &middot; 18.80&ndash;19.10&deg;N &middot; 72.55&ndash;72.95&deg;E</div>
 <h1>Mumbai coast and harbour, India</h1><p class="lede">The project's target area. Sentinel-1 images it about once every 12 days, and free AIS comes only from coastal receivers, so many unmatched ships here are simply out of receiver range.</p>

diff --git a/docs/demo/index.html b/docs/demo/index.html
@@ -83,7 +83,7 @@ footer{border-top:1px solid var(--line);padding:18px 0 28px;font:12px/1.6 var(--
   <div><div class="kicker">SAR &times; AIS &middot; MARITIME AWARENESS</div><div class="title">DARK VESSEL <b>DETECTION</b></div></div></a>
  <div class="status"><span class="pill"><span class="dot live"></span>AIS FEED <strong>LIVE</strong></span>
   <span class="pill">UTC <strong id="utc">--:--:--</strong></span>
-  <span class="pill">UPDATED <strong>03 Nov 04:12</strong></span></div>
+  <span class="pill">UPDATED <strong>03 Nov 04:27</strong></span></div>
 </div><nav class="tabs"><a class="" href="../index.html">OVERVIEW</a><a class="" href="../mumbai/index.html">MUMBAI</a><a class="" href="../denmark/index.html">DENMARK</a><a class="" href="../nn/index.html">NEURAL NET</a><a class="on" href="../demo/index.html">SIMULATION</a></nav></div></header>
 <main class="wrap"><div class="coords">SIMULATION // SYNTHETIC SCENES WITH KNOWN GROUND TRUTH</div>
 <h1>Simulation: the whole pipeline with a known answer</h1>

diff --git a/docs/nn/index.html b/docs/nn/index.html
@@ -83,7 +83,7 @@ footer{border-top:1px solid var(--line);padding:18px 0 28px;font:12px/1.6 var(--
   <div><div class="kicker">SAR &times; AIS &middot; MARITIME AWARENESS</div><div class="title">DARK VESSEL <b>DETECTION</b></div></div></a>
  <div class="status"><span class="pill"><span class="dot live"></span>AIS FEED <strong>LIVE</strong></span>
   <span class="pill">UTC <strong id="utc">--:--:--</strong></span>
-  <span class="pill">UPDATED <strong>03 Nov 04:12</strong></span></div>
+  <span class="pill">UPDATED <strong>03 Nov 04:27</strong></span></div>
 </div><nav class="tabs"><a class="" href="../index.html">OVERVIEW</a><a class="" href="../mumbai/index.html">MUMBAI</a><a class="" href="../denmark/index.html">DENMARK</a><a class="on" href="../nn/index.html">NEURAL NET</a><a class="" href="../demo/index.html">SIMULATION</a></nav></div></header>
 <main class="wrap"><div class="coords">NEURAL NETWORK // SHIPCNN</div>
 <h1>ShipCNN: our own convolutional network that decides "is this a ship?"</h1>
